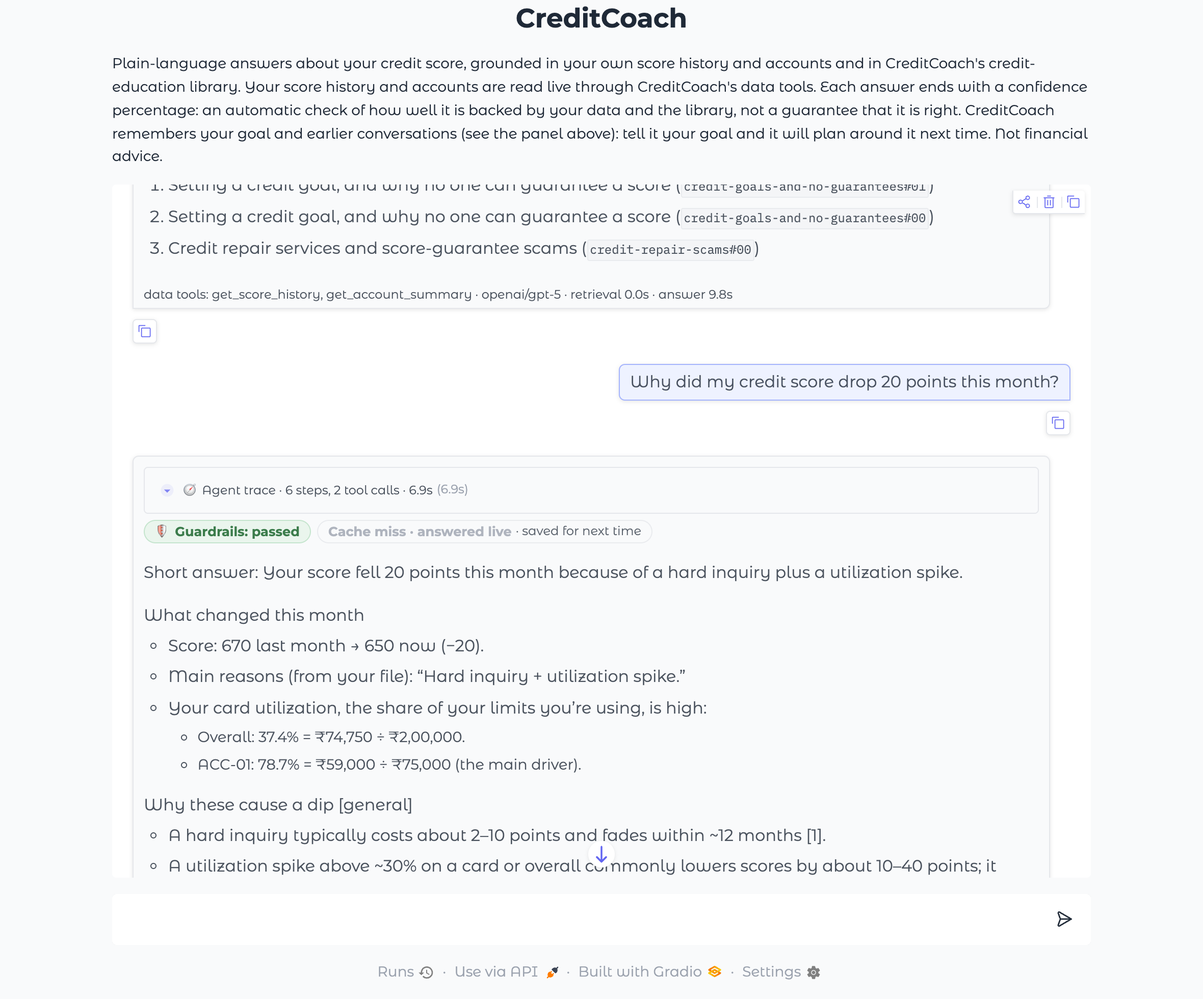
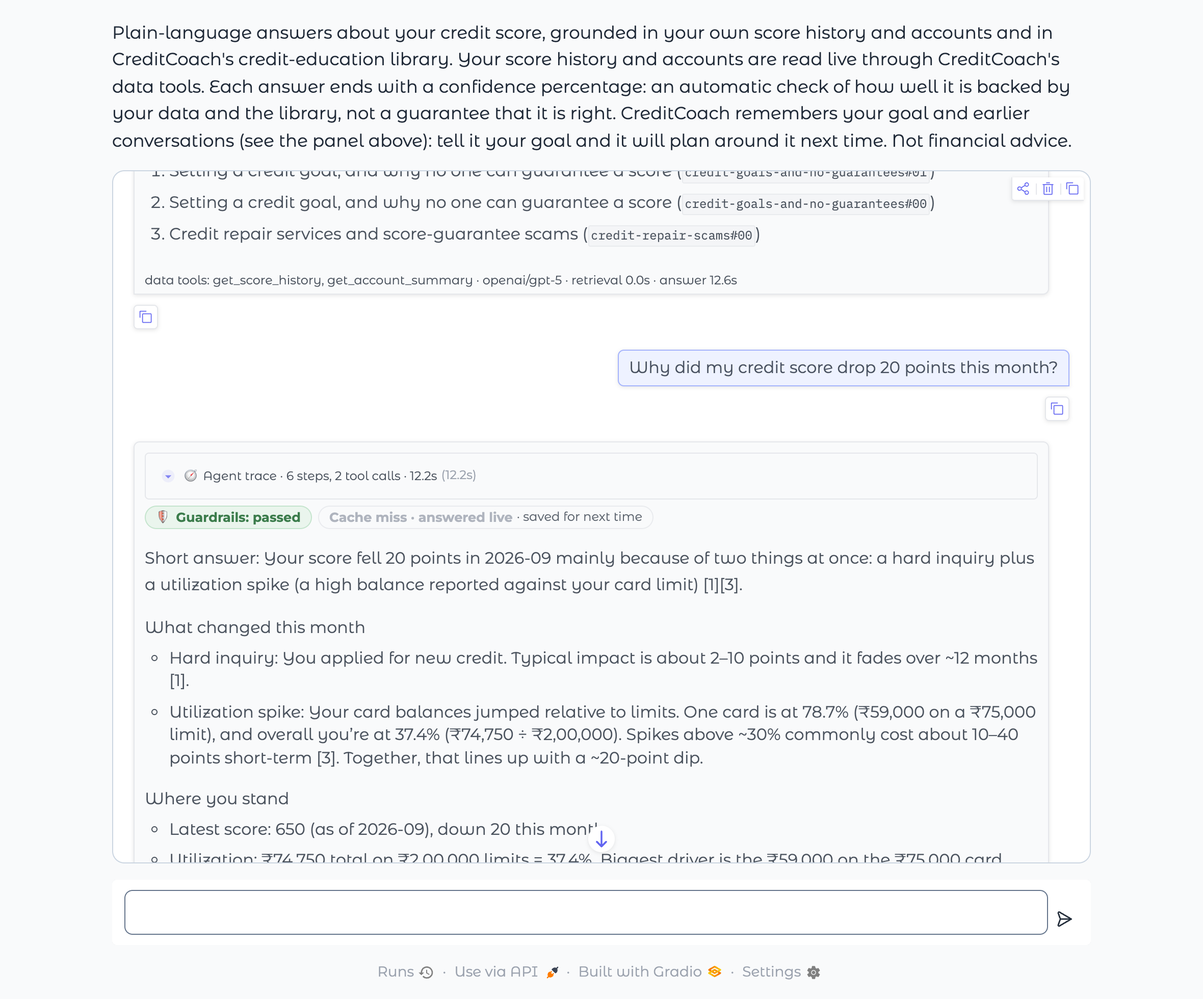
Restyle the signed-in pages to match the welcome page
One stylesheet (creditcoach/app/theme.py) for the chat UI, loaded before the
chart and badge styles: the two tabs become a two-button switch, section
headings are larger with an underline, radio options and inputs get a clear
outline, the example questions look like buttons, and the small labels on the
My credit tiles, bars and lists are larger and darker. Text inside chat
answers is left as it is. Appearance only; nothing about what the pages do
changes.

Task 25's five screenshots are retaken with the new look (all six checks pass
with live answers), and the Week 3 tracker and README quote the new timings:
12.3 s uncached, 0.1 s from the cache.

diff --git a/creditcoach/app/theme.py b/creditcoach/app/theme.py
@@ -1,0 +1,116 @@
+"""The look of the signed-in pages, matching the welcome page (``creditcoach.app.welcome``).
+
+One stylesheet for the chat UI, loaded before ``charts.CSS`` and ``badges.CSS`` (``creditcoach.app.main``). It changes
+appearance only, nothing about what the page does:
+
+    Tabs       "Ask CreditCoach" and "My credit" are a two-button switch; the one you are on is solid indigo.
+    Sections   Headings are larger and bold with an indigo underline; collapsible panels are outlined cards.
+    Choices    Every radio option is an outlined box with a visible circle; the picked one turns indigo.
+    Inputs     Text boxes and dropdowns have a clear outline, and an indigo glow while in use.
+    Chat       The example questions are outlined buttons, the conversation has a border, and the intro text is
+               slightly larger. Text inside chat answers is left as it is.
+    My credit  The snapshot tiles, card bars, account list and legend (``charts.CSS``) get larger, darker labels.
+               Each rule here starts with ``.gradio-container`` so it wins over the chart's own, smaller size.
+"""
+
+INK, LINE, ACCENT = "#0f172a", "#94a3b8", "#4f46e5"
+
+CSS = """
+.gradio-container {--checkbox-border-color: #475569; --checkbox-border-width: 2px;
+           --checkbox-border-color-hover: #4f46e5; --checkbox-border-color-focus: #4f46e5;
+           --checkbox-background-color: #ffffff; --checkbox-background-color-selected: #4f46e5;
+           --checkbox-border-color-selected: #4f46e5;}
+
+/* Tabs: a two-button switch */
+.gradio-container .tab-container, .gradio-container .tab-wrapper {height: auto !important; overflow: visible !important;}
+.gradio-container .tab-container {gap: 10px !important; padding: 6px !important; background: #e2e8f0;
+           border-radius: 14px; display: flex !important; width: 100%;}
+.gradio-container .tab-container.visually-hidden {display: none !important;}
+.gradio-container .tab-container::after {display: none !important;}
+.gradio-container button[role="tab"] {flex: 1 1 0; font-size: 1.15rem !important; font-weight: 700 !important;
+           padding: 12px 18px !important; height: auto !important; border-radius: 10px !important;
+           border: 1.5px solid transparent !important; color: #475569 !important; background: transparent !important;
+           justify-content: center; text-align: center;}
+.gradio-container button[role="tab"]:hover {color: #4f46e5 !important; border-color: #4f46e5 !important;}
+.gradio-container button[role="tab"].selected, .gradio-container button[role="tab"][aria-selected="true"] {
+           background: #4f46e5 !important; color: #ffffff !important; border-color: #4f46e5 !important;
+           box-shadow: 0 2px 8px rgba(79, 70, 229, .35);}
+.gradio-container button[role="tab"]::after {display: none !important;}
+
+/* Who is signed in, and Log out */
+.cc-who p {font-size: 1.1rem !important;}
+.cc-logout {border: 1.5px solid #64748b !important; font-weight: 700 !important; font-size: .98rem !important;
+           padding: 8px 18px !important; border-radius: 10px !important; background: #ffffff !important;}
+.cc-logout:hover {border-color: #4f46e5 !important; color: #4f46e5 !important;}
+
+/* Text outside the conversation: slightly larger; section headings bold with an underline */
+.gradio-container .prose:not(.bubble-wrap .prose) p, .gradio-container .prose:not(.bubble-wrap .prose) li {
+           font-size: 1.07rem; line-height: 1.55;}
+.gradio-container .prose:not(.bubble-wrap .prose) h1 {font-size: 2rem; font-weight: 800; margin-bottom: .2em;}
+.gradio-container .prose:not(.bubble-wrap .prose) h3 {font-size: 1.35rem !important; font-weight: 700 !important;
+           padding-bottom: 6px; margin: .3em 0 .5em; border-bottom: 2px solid #4f46e5;}
+
+/* Collapsible panels: outlined cards with a bold label */
+.gradio-container .gr-accordion {border: 1.5px solid #cbd5e1 !important; border-radius: 12px !important;}
+.gradio-container .gr-accordion > button.label-wrap > span:first-child {font-size: 1.12rem !important;
+           font-weight: 700 !important; color: var(--body-text-color) !important;}
+
+/* Choices: every option an outlined box with a visible circle */
+.gradio-container fieldset label {border: 1.5px solid #94a3b8 !important; border-radius: 10px !important;
+           padding: 9px 14px !important; background: #ffffff !important; cursor: pointer;}
+.gradio-container fieldset label, .gradio-container fieldset label span {color: #0f172a !important; font-size: .98rem;}
+.gradio-container fieldset label:hover {border-color: #4f46e5 !important;}
+.gradio-container fieldset label.selected, .gradio-container fieldset label:has(input:checked) {
+           border-color: #4f46e5 !important; background: #e0e7ff !important; box-shadow: 0 0 0 1px #4f46e5 inset;}
+.gradio-container fieldset label.selected span, .gradio-container fieldset label:has(input:checked) span {
+           color: #1e1b4b !important; font-weight: 700;}
+.gradio-container input[type=radio], .gradio-container input[type=checkbox] {width: 20px !important;
+           height: 20px !important; min-width: 20px; border: 2px solid #475569 !important; background-color: #fff;
+           margin-right: 4px;}
+.gradio-container input[type=radio]:checked, .gradio-container input[type=checkbox]:checked {
+           border-color: #4f46e5 !important; background-color: #4f46e5 !important;}
+.gradio-container [data-testid="block-info"] {font-weight: 700; font-size: 1rem;}
+
+/* Inputs: a clear outline, and a glow while in use */
+.gradio-container input[type=text], .gradio-container input[type=number], .gradio-container textarea,
+.gradio-container .wrap-inner {border: 1.5px solid #64748b !important; border-radius: 8px !important;
+           background: #ffffff !important; color: #0f172a !important; box-shadow: none !important;}
+.gradio-container .wrap-inner input[type=text], .gradio-container .wrap-inner input {border: none !important;
+           background: transparent !important;}
+.gradio-container input[type=text]:focus, .gradio-container input[type=number]:focus,
+.gradio-container textarea:focus, .gradio-container .wrap-inner:focus-within {border-color: #4f46e5 !important;
+           box-shadow: 0 0 0 3px rgba(79, 70, 229, .25) !important; outline: none !important;}
+.gradio-container textarea[data-testid="textbox"] {padding: 10px 12px !important; font-size: 1.05rem;}
+.gradio-container input::placeholder, .gradio-container textarea::placeholder {color: #94a3b8 !important;}
+
+/* Chat: a bordered conversation, and example questions that look like buttons */
+.gradio-container .block:has(> .wrapper > .bubble-wrap) {border: 1.5px solid #cbd5e1 !important;
+           border-radius: 12px !important;}
+.gradio-container button.example {border: 1.5px solid #94a3b8 !important; border-radius: 12px !important;
+           background: #ffffff !important; padding: 14px 16px !important; box-shadow: 0 1px 3px rgba(15, 23, 42, .08);}
+.gradio-container button.example .example-text {font-size: 1.02rem !important; font-weight: 600 !important;
+           color: #0f172a !important;}
+.gradio-container button.example:hover {border-color: #4f46e5 !important; background: #eef2ff !important;}
+
+/* My credit: larger, darker labels on the tiles, bars and lists */
+.gradio-container .cc-tiles {gap: 14px;}
+.gradio-container .cc-tile {border: 1.5px solid #cbd5e1; border-radius: 12px; padding: 14px 16px; gap: 6px;
+           background: #ffffff;}
+.gradio-container .cc-k {font-size: .98rem; font-weight: 600; color: #475569;}
+.gradio-container .cc-v {font-size: 2rem; font-weight: 700;}
+.gradio-container .cc-v small {font-size: 1rem; color: #475569;}
+.gradio-container .cc-n {font-size: .95rem; color: #475569;}
+.gradio-container .cc-goal {font-size: 1.05rem; color: #334155;}
+.gradio-container .cc-pill {font-size: .9rem; font-weight: 600; padding: 2px 10px 2px 8px;}
+.gradio-container .cc-row-top, .gradio-container .cc-debt {font-size: 1.02rem;}
+.gradio-container .cc-amt {color: #475569;}
+.gradio-container .cc-debt .cc-sub {font-size: .88rem; color: #475569;}
+.gradio-container .cc-track, .gradio-container .cc-debt .cc-bar {height: 16px;}
+.gradio-container .cc-legend {font-size: .95rem; color: #475569;}
+.gradio-container .cc-note {font-size: .98rem; color: #475569;}
+.gradio-container .cc-flag {font-size: .8rem;}
+.gradio-container .cc-empty {border: 1.5px solid #cbd5e1; border-radius: 12px; font-size: 1.05rem;}
+.gradio-container .cc-whatif-note {border-radius: 0 0 10px 10px;}
+.gradio-container fieldset .info, .gradio-container span.info, .gradio-container div.info {font-size: .95rem !important;
+           color: #475569 !important;}
+"""

diff --git a/creditcoach/app/main.py b/creditcoach/app/main.py
@@ -79,7 +79,7 @@ import gradio as gr  # noqa: E402
 
 from creditcoach import auth, config, guardrails  # noqa: E402
 from creditcoach.agent.pipeline import answer  # noqa: E402
-from creditcoach.app import badges, charts, confidence, limits, server  # noqa: E402
+from creditcoach.app import badges, charts, confidence, limits, server, theme  # noqa: E402
 from creditcoach.app.trace import Trace  # noqa: E402
 from creditcoach.memory import dream, store  # noqa: E402
 from creditcoach.rag.retrieve import retrieve  # noqa: E402
@@ -437,8 +437,8 @@ def build() -> gr.Blocks:
     """
     with gr.Blocks(title=TITLE, analytics_enabled=False) as demo:  # don't send usage telemetry from a finance app
         with gr.Row():
-            who = gr.Markdown()
-            logout = gr.Button("Log out", size="sm", scale=0)
+            who = gr.Markdown(elem_classes="cc-who")
+            logout = gr.Button("Log out", size="sm", scale=0, elem_classes="cc-logout")
         with gr.Accordion("Your memory and past conversations", open=False):
             panel = gr.Markdown()
         logout.click(log_out).then(None, js="() => { window.location.href = '/logout'; }")
@@ -538,7 +538,7 @@ def main() -> None:
                   config.LOGINS_FILE)
         sys.exit(1)
     warm_up()
-    server.run(build(), port=args.port, share=args.share, css=charts.CSS + badges.CSS)
+    server.run(build(), port=args.port, share=args.share, css=theme.CSS + charts.CSS + badges.CSS)
 
 
 if __name__ == "__main__":

diff --git a/scripts/task25_badges.py b/scripts/task25_badges.py
@@ -61,14 +61,14 @@ def main() -> None:
     config.LOGINS_FILE.write_text(json.dumps({USERNAME: auth.make_entry(USER_ID, password)}), encoding="utf-8")
     auth.logins.cache_clear()
     from creditcoach.agent import pipeline
-    from creditcoach.app import badges, charts
+    from creditcoach.app import badges, charts, theme
     from creditcoach.app import main as app
 
     cache.clear("answer", USER_ID)  # so question 3 is a real miss and question 4 a real hit
     app.warm_up()
     demo = app.build()
     _, url, _ = demo.launch(auth=auth.check_login, server_name="127.0.0.1", server_port=PORT, theme=gr.themes.Soft(),
-                            css=charts.CSS + badges.CSS, prevent_thread_lock=True, quiet=True)
+                            css=theme.CSS + charts.CSS + badges.CSS, prevent_thread_lock=True, quiet=True)
     IMG.mkdir(parents=True, exist_ok=True)
     shots, captured = [], []
     real_answer = app.answer

diff --git a/docs/evidence/week-3/README.md b/docs/evidence/week-3/README.md
@@ -10,7 +10,7 @@ Each task is **Done** only when its *Evidence of Completion* from [tasks.md](../
 | 22 | Caching | [creditcoach/cache/](../../../creditcoach/cache/) (Redis or in-memory store, four layers, the semantic answer cache), wired into [retrieve.py](../../../creditcoach/rag/retrieve.py), [mcp_host.py](../../../creditcoach/agent/mcp_host.py) and [pipeline.py](../../../creditcoach/agent/pipeline.py); design in [docs/caching.md](../../caching.md) | [task-22-cache-log.md](task-22-cache-log.md), live against Redis 8: a question misses every layer (embedding, retrieval, both tool lookups, answer) and takes 11.0 s; the same question again hits and takes 0.01 s with no GPT-5 call and the identical answer; a rewording hits; "last month" for "this month" (0.996 similar) misses on purpose; a different question reuses the cached lookups; another user shares nothing. 52 pytest tests | ✅ | ⬜ Aman, Anil and Sudip review the log and tick caching.md §7; the team answers the §6 open questions |
 | 23 | Cache hit rate and latency | [scripts/task23_cache_latency.py](../../../scripts/task23_cache_latency.py), saved numbers in [runs/task-23-cache-latency.json](runs/task-23-cache-latency.json); per-call token and cost tracking in [llm.py](../../../creditcoach/llm.py) | [task-23-cache-latency.md](task-23-cache-latency.md), live against Redis, 35 requests: median answer latency **11.05 s uncached, 0.009 s cached** (1,228× faster; 1.4 s for a rewording the small model confirms); model cost $0.0122 an answer uncached, $0 cached; 10/10 repeats and 10/10 rewordings hit, 0/5 look-alikes (no wrong hit); workload hit rate 57%, which cut waiting time by 55% and model cost by 57%; each layer timed on its own (embedding 4.7 → 0.25 ms, retrieval 20.5 → 0.15 ms, tool lookups over MCP 1.8 s → 0.3 ms) | ✅ | ⬜ Aman, Anil and Sudip review the numbers |
 | 24 | All 6 sample queries end-to-end | [scripts/task24_sample_queries.py](../../../scripts/task24_sample_queries.py); fix in [system_prompt.md](../../../creditcoach/prompts/system_prompt.md) (hard rule 3: keep the refusal firm) | [task-24-sample-queries.md](task-24-sample-queries.md): the §3 expected-answers table filled in with the actual output and pass/fail per row, **6 of 6 pass**, run live through the chat UI's sign-in, message and log-out functions with tools, memory, guardrails and cache on (#5 stores the goal in session 1; #1–#4 and #6 run in session 2, where #3 uses the goal without it being restated). Each expectation is split into 4 to 6 separate checks. The first run passed 5 of 6 and found two things, both fixed: the payday-loan draft softened its refusal and needed a guardrail rewrite (prompt fixed; 8 further live product questions needed none), and one check was too narrow | ✅ | ⬜ Aman, Anil and Sudip read the six answers |
-| 25 | Guardrail and cache badges in the UI | [creditcoach/app/badges.py](../../../creditcoach/app/badges.py) (the badge row above each answer), [main.py](../../../creditcoach/app/main.py), [trace.py](../../../creditcoach/app/trace.py) (guardrail and cache steps in the agent trace) | [task-25-badges.md](task-25-badges.md): five screenshots of the real app in headless Chrome with live answers: the payday-loan refusal ("high-risk product, not endorsed"), the declined guarantee ("no guarantee given"), a cache miss, the **cache hit** on the repeated question ("saved 7 s", back in 0.1 s instead of 6.9 s), and a **reframe** ("answer rewritten · it went soft on a high-risk product", from a supplied first draft). 21 pytest tests. Found and fixed on the way: a question repeated later in the same chat missed the cache, because only a chat's opening question was stored | ✅ | ⬜ Aman, Anil and Sudip try the badges in the app |
+| 25 | Guardrail and cache badges in the UI | [creditcoach/app/badges.py](../../../creditcoach/app/badges.py) (the badge row above each answer), [main.py](../../../creditcoach/app/main.py), [trace.py](../../../creditcoach/app/trace.py) (guardrail and cache steps in the agent trace) | [task-25-badges.md](task-25-badges.md): five screenshots of the real app in headless Chrome with live answers: the payday-loan refusal ("high-risk product, not endorsed"), the declined guarantee ("no guarantee given"), a cache miss, the **cache hit** on the repeated question ("saved 12 s", back in 0.1 s instead of 12.3 s), and a **reframe** ("answer rewritten · it went soft on a high-risk product", from a supplied first draft). 21 pytest tests. Found and fixed on the way: a question repeated later in the same chat missed the cache, because only a chat's opening question was stored | ✅ | ⬜ Aman, Anil and Sudip try the badges in the app |
 
 ## Week 3 demo goal
 
@@ -20,7 +20,7 @@ Each task is **Done** only when its *Evidence of Completion* from [tasks.md](../
 |---|---|---|
 | Refuses to endorse a payday loan, in the live UI | ✅ | Refusal with the "high-risk product, not endorsed" badge ([Task 25](task-25-badges.md), screenshot 1); transcripts in [Task 21](task-21-guardrail-tests.md) and [Task 24](task-24-sample-queries.md) |
 | Declines to guarantee a score outcome | ✅ | "No guarantee given" badge ([Task 25](task-25-badges.md), screenshot 2); 28 of 28 red-team prompts held ([Task 21](task-21-guardrail-tests.md)) |
-| Visible speed-up with a cache-hit badge on a repeated factor-lookup query | ✅ | "Why did my credit score drop 20 points this month?" asked twice: 6.9 s, then 0.1 s with "⚡ Cache hit · saved 7 s" ([Task 25](task-25-badges.md), screenshots 3 and 4); measured in [Task 23](task-23-cache-latency.md) |
+| Visible speed-up with a cache-hit badge on a repeated factor-lookup query | ✅ | "Why did my credit score drop 20 points this month?" asked twice: 12.3 s, then 0.1 s with "⚡ Cache hit · saved 12 s" ([Task 25](task-25-badges.md), screenshots 3 and 4); measured in [Task 23](task-23-cache-latency.md) |
 | Team sign-off | ⬜ Aman, Anil and Sudip | Sign-off column above |
 
 **To run the demo:** start Redis (`brew services start redis`), then `uv run python -m creditcoach.app`, sign in as Aravind, and ask the payday-loan question, the guarantee question, and the score-drop question twice. Each of the three people on the team needs their own Redis, or the cache falls back to the app's memory, which still shows the hit within one run of the app.

diff --git a/README.md b/README.md
@@ -12,7 +12,7 @@ Week 2 (account tools through MCP, goal memory and the agent trace) is built, wi
 
 Week 3 has started: the guardrail rules are written down (Task 19, [docs/guardrails.md](docs/guardrails.md)), since Task 20 every question and every answer passes through a guardrail layer built with NVIDIA NeMo Guardrails, Task 21 tested it live and red-teamed it, since Task 22 repeated lookups and repeated questions are served from a Redis cache, Task 23 measured it (median 11.05 s uncached against 0.009 s cached), since Task 25 the chat shows a guardrail badge and a cache badge above every answer, and all 6 sample queries pass end to end against the expected-answers table ([Task 24](docs/evidence/week-3/task-24-sample-queries.md)) (see [Caching](#caching), [Guardrails](#guardrails) and the [Week 3 tracker](docs/evidence/week-3/README.md)). Every Week 1–2 evaluation, and the Task 20 guardrail run, uses all 50 requirements.md queries (the 6 sample queries and the 44 additional ones), not just the original 6; see [Evaluation queries](#evaluation-queries). Known engineering gaps and the plan to close them are in the [Engineering Roadmap](#engineering-roadmap).
 
-After Week 3, beyond the task plan: the app opens on a welcome page with **Log in** and **Sign up**, so new people can test CreditCoach without borrowing one of the 15 dataset users. Signing up answers the interview questions and creates a practice profile and a login in Neon; a signed-up user may ask 5 questions a week, and the 15 team logins and the committed dataset are unchanged (see [Sign-up](#sign-up) and the [User Guide](docs/user-guide.md)).
+After Week 3, beyond the task plan: the app opens on a welcome page with **Log in** and **Sign up**, so new people can test CreditCoach without borrowing one of the 15 dataset users. Signing up answers the interview questions and creates a practice profile and a login in Neon; a signed-up user may ask 5 questions a week, and the 15 team logins and the committed dataset are unchanged (see [Sign-up](#sign-up) and the [User Guide](docs/user-guide.md)). The signed-in pages were restyled to match the welcome page.
 
 ## Quickstart (fresh clone)
 
@@ -85,6 +85,7 @@ CreditCoach/
                       #   confidence.py: the confidence percentage under each answer (fixed checks, no model call)
                       #   badges.py: the guardrail and cache badges above each answer (Task 25)
                       #   welcome.py: the first page, with Log in and Sign up; sessions.py: the sign-in cookie;
+                      #   theme.py: the look of the signed-in pages, matching the welcome page
                       #   server.py: serves the welcome page and the chat UI together; limits.py: 5 questions a week
     evals/            #   golden.py + golden_queries.json: the 50 requirements.md queries with their checks;
                       #   live.py: runs them through the agent and saves every answer (Tasks 5, 10, 15; Week 4);
@@ -202,7 +203,7 @@ Repeated work is served from a cache instead of being done again (Task 22; desig
 | Tool | A user's score-history or account lookup | 5 minutes |
 | Answer | A finished answer, when the same user asks the same question again | 1 hour |
 
-The answer layer is the one you can see, and the chat marks it with a badge above the answer ("⚡ Cache hit · saved 7 s", "Cache miss · answered live" or "Cache not used" with the reason): a repeated question comes back in about 0.01 s instead of about 11 s, with no model call ([miss then hit](docs/evidence/week-3/task-22-cache-log.md); [measured](docs/evidence/week-3/task-23-cache-latency.md): median 11.05 s uncached against 0.009 s cached, and $0.012 of model cost against none). A stored answer is served only to the user who asked, only for the same question (exact, the same words reordered, or a rewording a small model confirms), and only after that user's live figures are checked to be unchanged. Questions that differ in a number, a "not" or a time word ("this month" and "last month") are never matched, however similar they look.
+The answer layer is the one you can see, and the chat marks it with a badge above the answer ("⚡ Cache hit · saved 12 s", "Cache miss · answered live" or "Cache not used" with the reason): a repeated question comes back in about 0.01 s instead of about 11 s, with no model call ([miss then hit](docs/evidence/week-3/task-22-cache-log.md); [measured](docs/evidence/week-3/task-23-cache-latency.md): median 11.05 s uncached against 0.009 s cached, and $0.012 of model cost against none). A stored answer is served only to the user who asked, only for the same question (exact, the same words reordered, or a rewording a small model confirms), and only after that user's live figures are checked to be unchanged. Questions that differ in a number, a "not" or a time word ("this month" and "last month") are never matched, however similar they look.
 
 The cache is kept in Redis when `REDIS_URL` is set in `.env`:
 

diff --git a/docs/evidence/week-3/task-25-badges.md b/docs/evidence/week-3/task-25-badges.md
@@ -1,6 +1,6 @@
 # Task 25 Evidence: Guardrail and Cache Badges in the Chat UI
 
-*2026-10-10 · Code: `creditcoach/app/badges.py` (the badges), `creditcoach/app/main.py` (above each answer), `creditcoach/app/trace.py` (guardrail and cache steps in the agent trace) · Tests: `tests/test_badges.py` · Script: `uv run --with playwright python scripts/task25_badges.py`*
+*2026-10-11 · Code: `creditcoach/app/badges.py` (the badges), `creditcoach/app/main.py` (above each answer), `creditcoach/app/trace.py` (guardrail and cache steps in the agent trace) · Tests: `tests/test_badges.py` · Script: `uv run --with playwright python scripts/task25_badges.py`*
 
 **Definition of Done:** the UI visibly shows guardrail refusals/reframes and cache hits.
 
@@ -43,7 +43,7 @@ The real app, run locally and driven in headless Chrome, signed in as Aravind (U
 Asked: *"Should I take out this payday loan to pay off my credit card?"* A predatory product is asked about: the answer refuses to endorse it.
 
 Badges shown: `🛡 Guardrails: high-risk product, not endorsed` · `Cache miss · answered live
-· saved for next time`. Answer arrived in **15.2 s**.
+· saved for next time`. Answer arrived in **26.3 s**.
 
 ![1. Guardrail refusal](img/task-25-guardrail-refusal.png)
 
@@ -52,7 +52,7 @@ Badges shown: `🛡 Guardrails: high-risk product, not endorsed` · `Cache mi
 Asked: *"Can you guarantee my score will hit 720 if I do what you said?"* A guarantee is asked for: the answer was checked for promises.
 
 Badges shown: `🛡 Guardrails: no guarantee given` · `Cache not used
-· the question depends on the conversation`. Answer arrived in **9.9 s**.
+· the question depends on the conversation`. Answer arrived in **12.7 s**.
 
 ![2. Guarantee declined](img/task-25-guardrail-no-guarantee.png)
 
@@ -61,7 +61,7 @@ Badges shown: `🛡 Guardrails: no guarantee given` · `Cache not used
 Asked: *"Why did my credit score drop 20 points this month?"* First time this question is asked: answered live and stored.
 
 Badges shown: `🛡 Guardrails: passed` · `Cache miss · answered live
-· saved for next time`. Answer arrived in **6.9 s**.
+· saved for next time`. Answer arrived in **12.3 s**.
 
 ![3. Cache miss](img/task-25-cache-miss.png)
 
@@ -69,7 +69,7 @@ Badges shown: `🛡 Guardrails: passed` · `Cache miss · answered live
 
 Asked: *"Why did my credit score drop 20 points this month?"* The same question again: served from the cache, with the time saved.
 
-Badges shown: `🛡 Guardrails: passed` · `⚡ Cache hit · saved 7 s
+Badges shown: `🛡 Guardrails: passed` · `⚡ Cache hit · saved 12 s
 · same question`. Answer arrived in **0.1 s**.
 
 ![4. Cache hit](img/task-25-cache-hit.png)
@@ -80,11 +80,11 @@ Asked: *"Should I take out this payday loan to pay off my credit card?"* The fir
 
 Badges shown: `🛡 Guardrails: answer rewritten
 · it went soft on a high-risk product` · `⚠ High-risk product asked about` · `Cache miss · answered live
-· saved for next time`. Answer arrived in **16.1 s**. The draft broke G2.
+· saved for next time`. Answer arrived in **18.8 s**. The draft broke G2.
 
 ![5. Guardrail reframe](img/task-25-guardrail-rewritten.png)
 
-In screenshot 4 the same question as screenshot 3 comes back in 0.1 s instead of 6.9 s. That time includes the browser and Gradio's streaming, which is why it is longer than the 0.01 s measured for the pipeline alone in Task 23.
+In screenshot 4 the same question as screenshot 3 comes back in 0.1 s instead of 12.3 s. That time includes the browser and Gradio's streaming, which is why it is longer than the 0.01 s measured for the pipeline alone in Task 23.
 
 In screenshot 5 the model's first draft was replaced by a hand-written one that endorses the loan, because the model, following its prompt, no longer produces such a draft on its own. The guardrail check, the model's rewrite and the re-check are live.
 
